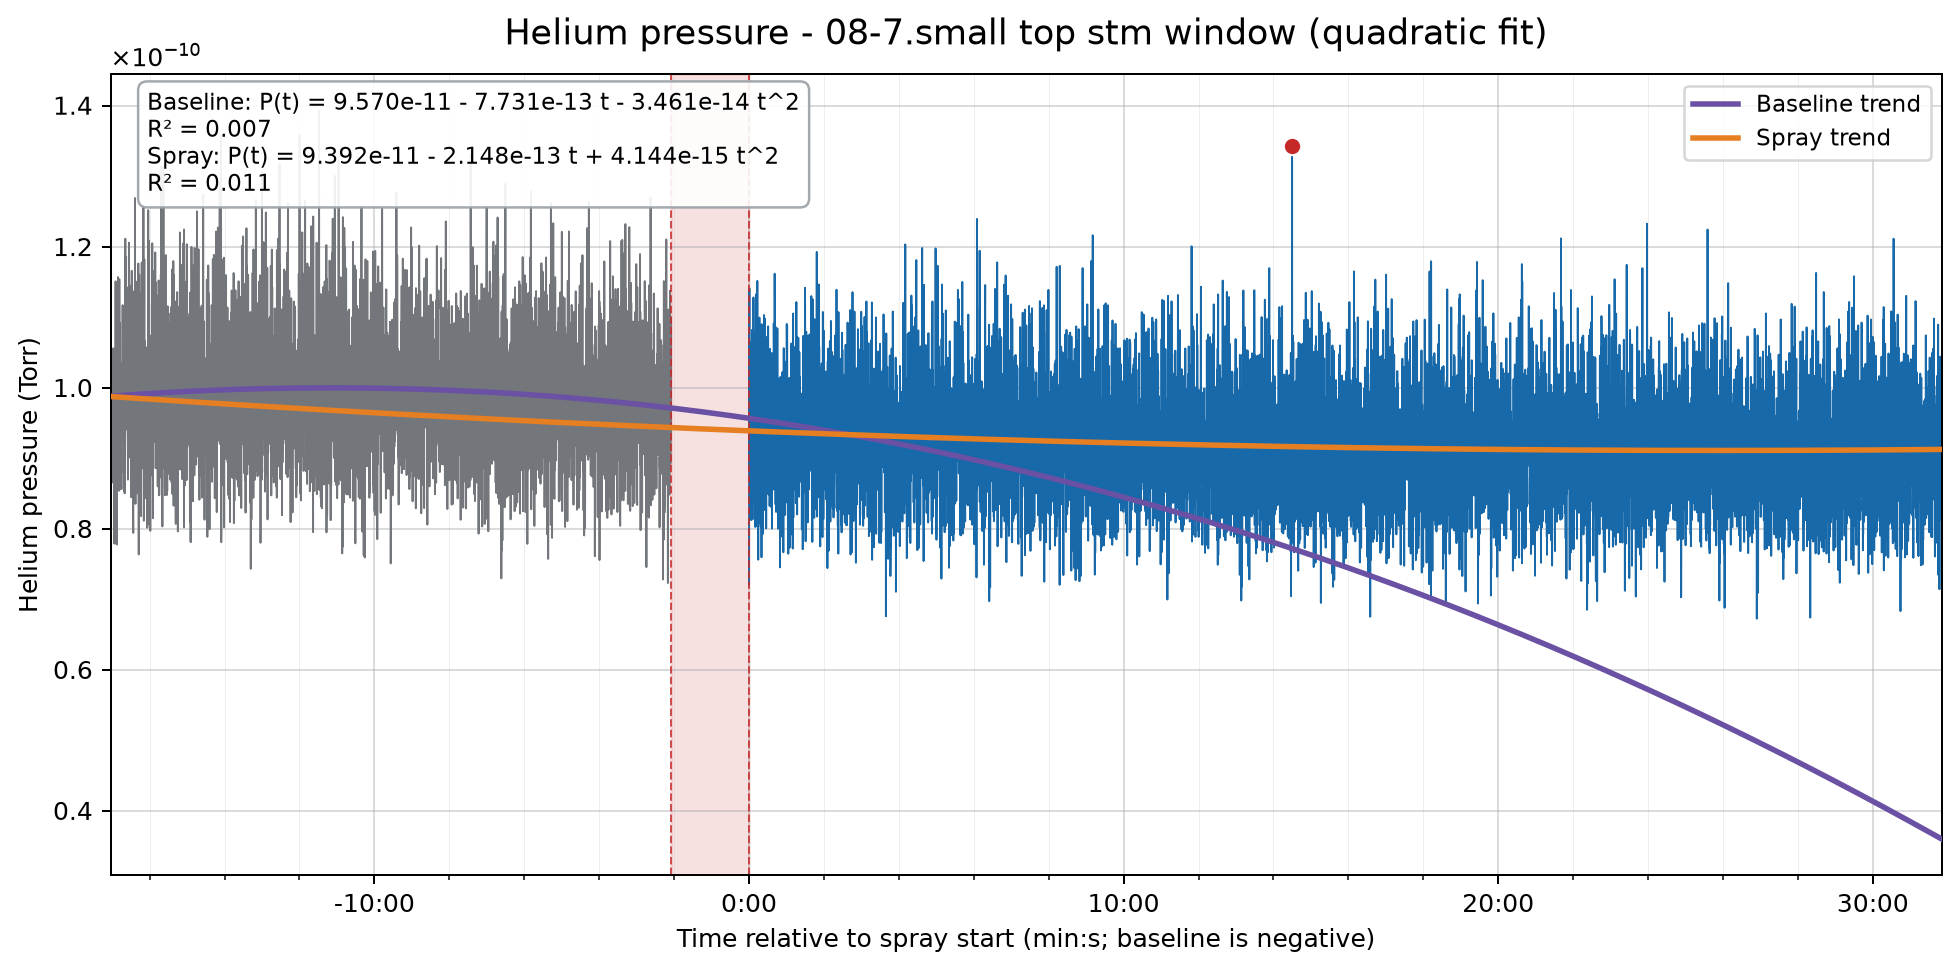
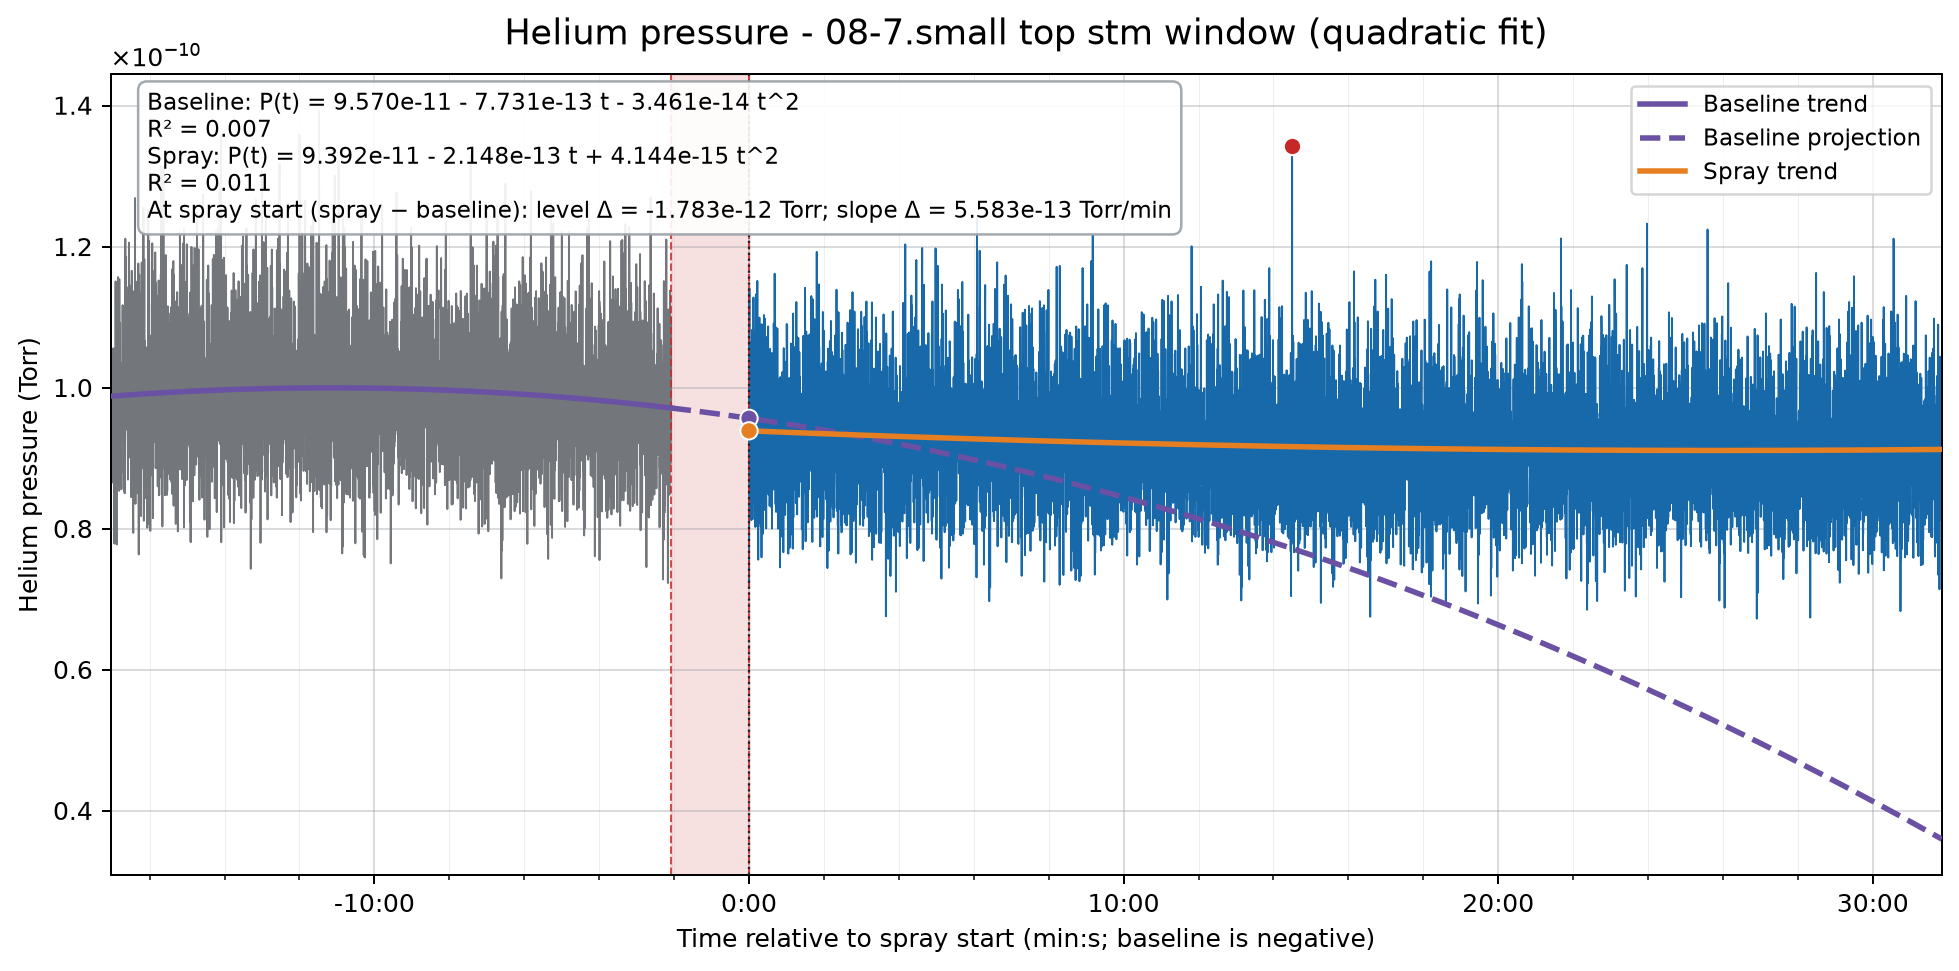
10.13_re3x

diff --git a/tests/test_pipeline.py b/tests/test_pipeline.py
@@ -148,14 +148,30 @@ class LinearPhaseTrendTests(unittest.TestCase):
                 trend_lines = {
                     line.get_label(): line
                     for line in axes.lines
-                    if line.get_label() in {"Baseline trend", "Spray trend"}
+                    if line.get_label()
+                    in {"Baseline trend", "Baseline projection", "Spray trend"}
                 }
 
                 self.assertTrue(output.is_file())
-                self.assertEqual(set(trend_lines), {"Baseline trend", "Spray trend"})
-                for line in trend_lines.values():
-                    self.assertAlmostEqual(line.get_xdata()[0], -9 * 60)
-                    self.assertAlmostEqual(line.get_xdata()[-1], 2 * 60)
+                self.assertEqual(
+                    set(trend_lines),
+                    {"Baseline trend", "Baseline projection", "Spray trend"},
+                )
+                self.assertAlmostEqual(trend_lines["Baseline trend"].get_xdata()[0], -9 * 60)
+                self.assertAlmostEqual(trend_lines["Baseline trend"].get_xdata()[-1], -7 * 60)
+                self.assertAlmostEqual(
+                    trend_lines["Baseline projection"].get_xdata()[0], -7 * 60
+                )
+                self.assertAlmostEqual(
+                    trend_lines["Baseline projection"].get_xdata()[-1], 2 * 60
+                )
+                self.assertEqual(
+                    trend_lines["Baseline projection"].get_linestyle(), "--"
+                )
+                self.assertAlmostEqual(trend_lines["Spray trend"].get_xdata()[0], 0)
+                self.assertAlmostEqual(
+                    trend_lines["Spray trend"].get_xdata()[-1], 2 * 60
+                )
                 baseline_slope = np.polyfit(
                     trend_lines["Baseline trend"].get_xdata() / 60,
                     trend_lines["Baseline trend"].get_ydata(),
@@ -171,6 +187,8 @@ class LinearPhaseTrendTests(unittest.TestCase):
                 summary = "\n".join(text.get_text() for text in axes.texts)
                 self.assertIn("Baseline: slope = 1.000e-11 Torr/min (n=3", summary)
                 self.assertIn("Spray: slope = 2.000e-11 Torr/min (n=3", summary)
+                self.assertIn("At spray start (spray − baseline): level Δ =", summary)
+                self.assertIn("slope Δ = 1.000e-11 Torr/min", summary)
             finally:
                 plt.close("all")
 
@@ -203,7 +221,7 @@ class LinearPhaseTrendTests(unittest.TestCase):
             finally:
                 plt.close("all")
 
-    def test_quadratic_fits_cover_full_graph_with_distinct_phase_colors(self) -> None:
+    def test_quadratic_fits_show_phase_ranges_and_baseline_projection(self) -> None:
         spray_start = pd.Timestamp("2026-10-08 15:00:00")
         timestamps = [
             spray_start - pd.Timedelta(minutes=3),
@@ -239,25 +257,38 @@ class LinearPhaseTrendTests(unittest.TestCase):
                 trend_lines = {
                     line.get_label(): line
                     for line in axes.lines
-                    if line.get_label() in {"Baseline trend", "Spray trend"}
+                    if line.get_label()
+                    in {"Baseline trend", "Baseline projection", "Spray trend"}
                 }
 
                 self.assertTrue(output.is_file())
-                self.assertEqual(set(trend_lines), {"Baseline trend", "Spray trend"})
+                self.assertEqual(
+                    set(trend_lines),
+                    {"Baseline trend", "Baseline projection", "Spray trend"},
+                )
                 self.assertNotEqual(
                     trend_lines["Baseline trend"].get_color(),
                     trend_lines["Spray trend"].get_color(),
                 )
-                for line in trend_lines.values():
-                    self.assertAlmostEqual(line.get_xdata()[0], -3 * 60)
-                    self.assertAlmostEqual(line.get_xdata()[-1], 2 * 60)
+                self.assertAlmostEqual(trend_lines["Baseline trend"].get_xdata()[0], -3 * 60)
+                self.assertAlmostEqual(trend_lines["Baseline trend"].get_xdata()[-1], -1 * 60)
+                self.assertAlmostEqual(
+                    trend_lines["Baseline projection"].get_xdata()[0], -1 * 60
+                )
+                self.assertAlmostEqual(
+                    trend_lines["Baseline projection"].get_xdata()[-1], 2 * 60
+                )
+                self.assertAlmostEqual(trend_lines["Spray trend"].get_xdata()[0], 0)
+                self.assertAlmostEqual(
+                    trend_lines["Spray trend"].get_xdata()[-1], 2 * 60
+                )
                 summary = "\n".join(text.get_text() for text in axes.texts)
                 self.assertIn("Baseline: P(t) =", summary)
                 self.assertIn("Spray: P(t) =", summary)
-                self.assertEqual(
-                    {text.get_text() for text in axes.get_legend().get_texts()},
-                    {"Baseline trend", "Spray trend"},
-                )
+                self.assertIn("At spray start (spray − baseline): level Δ =", summary)
+                self.assertIn("slope Δ =", summary)
+                legend_labels = {text.get_text() for text in axes.get_legend().get_texts()}
+                self.assertTrue({"Baseline trend", "Baseline projection", "Spray trend"}.issubset(legend_labels))
             finally:
                 plt.close("all")
 

diff --git a/rga_analyze/pipeline.py b/rga_analyze/pipeline.py
@@ -180,11 +180,8 @@ def plot_location(
         fit_summaries = []
         fit_colors = {"baseline": "#6a51a3", "spray": "#e67e22"}
         unit_label = units[0] if len(units) == 1 else "pressure"
-        fit_minutes = np.linspace(
-            min(float(seconds.min()), 0) / 60,
-            max(float(seconds.max()), 1) / 60,
-            500,
-        )
+        graph_end_minutes = max(float(seconds.max()), 1) / 60
+        fitted_models: dict[str, tuple[np.polynomial.Polynomial, np.ndarray]] = {}
         for phase in ("baseline", "spray") if has_baseline else ("spray",):
             fit_data = data.loc[
                 (phases == phase) & data["pressure"].notna()
@@ -208,6 +205,10 @@ def plot_location(
                 fit_degree,
             )
             coefficients = fit.convert().coef
+            fitted_models[phase] = (fit, coefficients)
+            fit_start = float(fit_minutes_data.min())
+            fit_end = float(fit_minutes_data.max())
+            fit_minutes = np.linspace(fit_start, fit_end, 500)
             ax.plot(
                 fit_minutes * 60,
                 fit(fit_minutes),
@@ -216,6 +217,21 @@ def plot_location(
                 zorder=4,
                 label=f"{phase.title()} trend",
             )
+            if phase == "baseline" and fit_end < graph_end_minutes:
+                projection_minutes = np.linspace(
+                    fit_end,
+                    graph_end_minutes,
+                    500,
+                )
+                ax.plot(
+                    projection_minutes * 60,
+                    fit(projection_minutes),
+                    color=fit_colors[phase],
+                    linewidth=2.2,
+                    linestyle="--",
+                    zorder=4,
+                    label="Baseline projection",
+                )
             pressures = fit_data["pressure"].to_numpy(dtype=float)
             residual_sum_squares = float(
                 np.sum((pressures - fit(fit_minutes_data)) ** 2)
@@ -247,6 +263,41 @@ def plot_location(
                     f"R² = {r_squared:.3f}" if r_squared is not None
                     else f"{phase.title()}: {equation}\nR² = undefined"
                 )
+
+        if has_baseline and {"baseline", "spray"}.issubset(fitted_models):
+            baseline_fit, baseline_coefficients = fitted_models["baseline"]
+            spray_fit, spray_coefficients = fitted_models["spray"]
+            baseline_at_start = float(baseline_fit(0))
+            spray_at_start = float(spray_fit(0))
+            baseline_slope_at_start = float(baseline_coefficients[1])
+            spray_slope_at_start = float(spray_coefficients[1])
+            level_difference = spray_at_start - baseline_at_start
+            slope_difference = spray_slope_at_start - baseline_slope_at_start
+
+            ax.axvline(0, color="#202124", linewidth=0.9, linestyle=":", zorder=3)
+            ax.scatter(
+                [0, 0],
+                [baseline_at_start, spray_at_start],
+                color=[fit_colors["baseline"], fit_colors["spray"]],
+                edgecolor="white",
+                linewidth=0.8,
+                s=48,
+                zorder=5,
+            )
+            if not np.isclose(level_difference, 0):
+                ax.annotate(
+                    "",
+                    xy=(0, spray_at_start),
+                    xytext=(0, baseline_at_start),
+                    arrowprops={"arrowstyle": "<->", "color": "#202124", "lw": 1.2},
+                    zorder=5,
+                )
+
+            fit_summaries.append(
+                f"At spray start (spray − baseline): level Δ = "
+                f"{level_difference:.3e} {unit_label}; slope Δ = "
+                f"{slope_difference:.3e} {unit_label}/min"
+            )
 
         ax.legend(loc="best", fontsize=9)
         ax.text(

diff --git a/README.md b/README.md
@@ -22,8 +22,8 @@ The terminal needs to be open in the project folder (the one containing `README.
 
 - Results are grouped under `analysis_outputs/<month.day>/`, based on the input folder name.
 - `plots/helium_by_location/`: raw, unfitted time-series graphs, one per location.
-- `plots/helium_by_location_fits/linear/`: raw readings with straight-line fits to each available phase. Each fit is extended across the full graph, with its phase's slope, sample count, and R². Without baseline data, only the spray fit is shown.
-- `plots/helium_by_location_fits/quadratic/`: raw readings with second-degree (quadratic) fits to each available phase. Each fit is extended across the full graph, with its phase's equation and R². Without baseline data, only the spray fit is shown.
+- `plots/helium_by_location_fits/linear/`: raw readings with straight-line fits shown only over each phase's data. When baseline data is available, its fit continues as a dashed projection through the spray period. The plot reports each phase's slope, sample count, and R², plus the fitted level and slope differences at spray start.
+- `plots/helium_by_location_fits/quadratic/`: raw readings with second-degree (quadratic) fits shown only over each phase's data. When baseline data is available, its curve continues as a dashed projection through the spray period. The plot reports each phase's equation and R², plus the fitted level and instantaneous slope differences at spray start.
 - `processed_data/amu4_by_location/`: the AMU-4 samples used for each graph, with timestamps, phase, source-file names, spray start, and elapsed time.
 
 The run summary lists any CSV that did not contain usable chronological AMU-4 samples. Those files are left out rather than guessed into the plot. It also reports malformed measurement rows and rows whose timestamps are more than 15 minutes from the timestamp in the source filename; those rows are excluded from analysis without changing the source CSVs.
@@ -39,6 +39,6 @@ The run summary lists any CSV that did not contain usable chronological AMU-4 sa
 - The x-axis is time relative to spray start (`min:s`): baseline readings are negative and the first spray sample is at zero. No baseline subtraction is applied to the pressure values.
 - The red point marks the highest measured sample in the spray phase; it is a visual reference, not an automatic leak verdict.
 - Gaps longer than two seconds, including the baseline-to-spray transition, are left unconnected and marked in red.
-- Fit graphs show separate, differently colored baseline and spray trends when baseline data is available. Each fit is calculated only from that phase's readings, then extended across the full graph to make changes between phases directly comparable. Without baseline data, the spray fit spans the full graph. Linear fits report each phase's slope (pressure change per minute), sample count, and R². Quadratic fits report each phase's equation (with time from spray start in minutes) and R². Full-phase fits summarize the average trend and can hide short-lived peaks. R² describes how much of the variation in the recorded pressures is captured by a fit; it does not establish a leak or its cause.
+- Fit graphs show separate, differently colored baseline and spray trends when baseline data is available. Each solid fit is shown only over its phase's readings. The baseline fit also continues as a dashed projection through the spray period: it shows what the baseline trend would predict, not additional measured data. At spray start, markers show the two fits' predicted pressures and the level difference; the summary reports the spray-minus-baseline slope difference there. For quadratic fits, these are instantaneous slopes at spray start, not an average over the spray phase. Without baseline data, only the spray fit over its actual data range is shown. Linear fits report each phase's slope (pressure change per minute), sample count, and R². Quadratic fits report each phase's equation (with time from spray start in minutes) and R². Full-phase fits summarize the average trend and can hide short-lived peaks. R² describes how much of the variation in the recorded pressures is captured by a fit; it does not establish a leak or its cause.
 
 These fits are exploratory visual comparisons, not a leak-rate calculation or a leak verdict. Use the raw plots to identify a time range before interpreting a short rise or peak; a fit over the full spray phase can hide local behavior. Source files are never changed.
